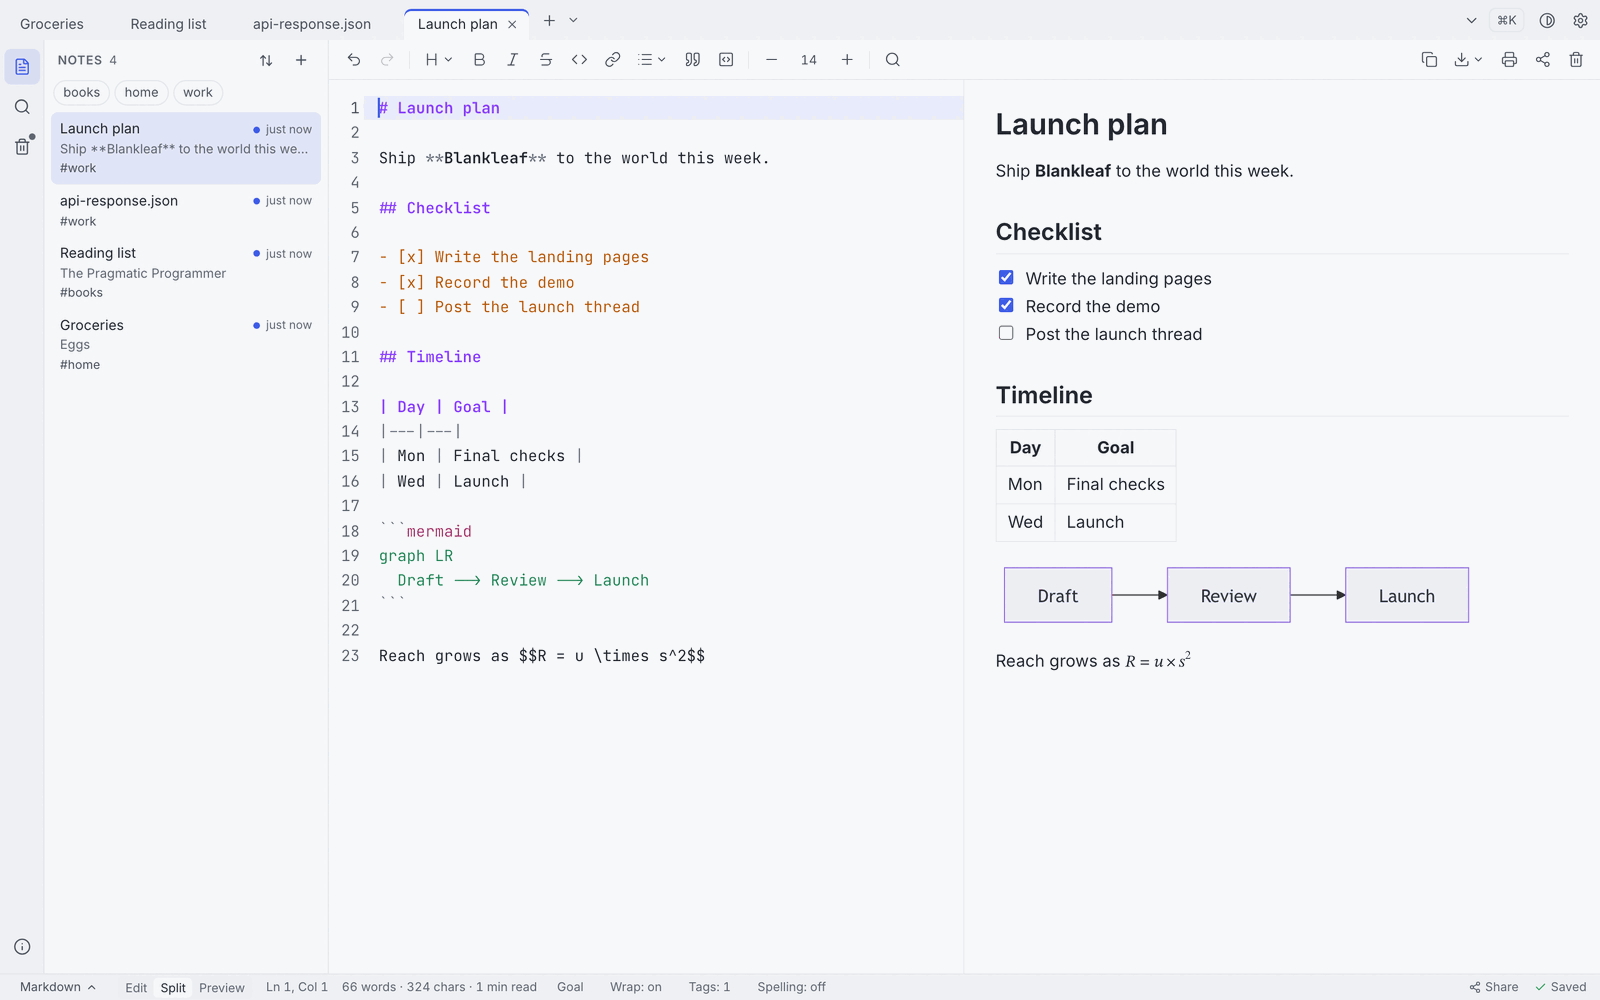
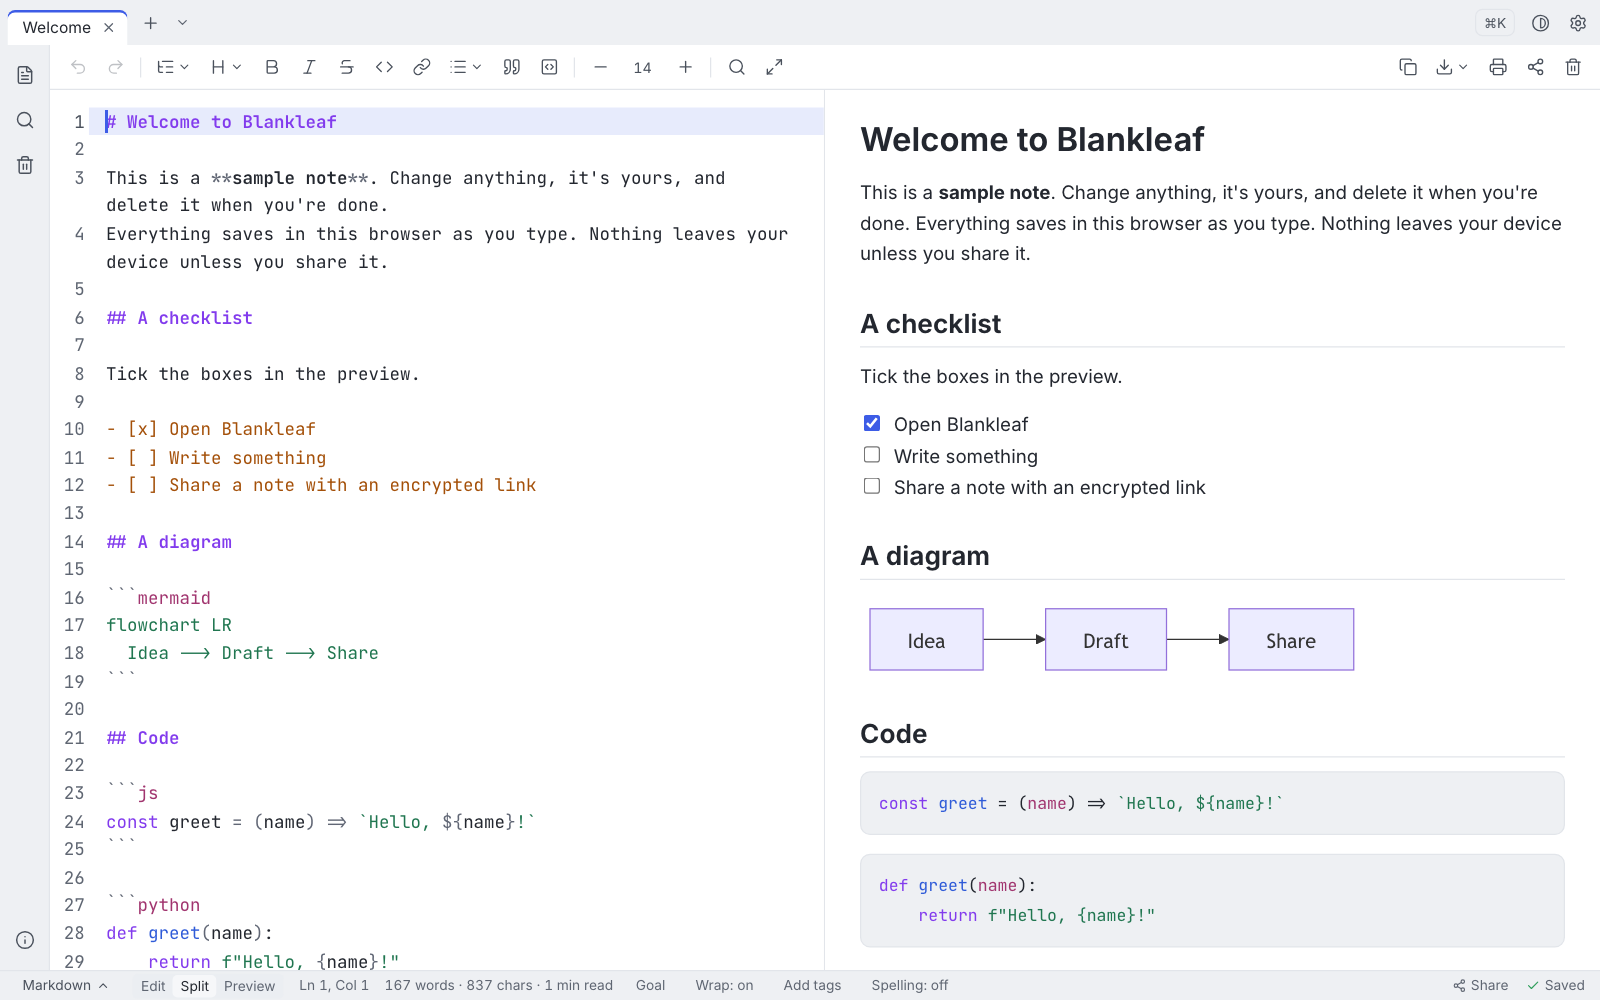
docs: new README screenshots and features, screenshot script (#67)
Retaken hero and phone images with the sample note, and new ones for links
between notes, Compare and zen mode. The README lists links, Outline,
Compare, the .zip download, the code-editing help and 33 formats, and the
shortcuts table gains Alt+Z for zen and Ctrl+/ for comments. `npm run
readme:shots` retakes the images from a running app.

Also: the backup reminder waits until zen mode is over instead of covering
the page.

diff --git a/src/features/backup/useBackupReminder.ts b/src/features/backup/useBackupReminder.ts
@@ -7,13 +7,15 @@ import { hasWrittenNotes, shouldRemindBackup } from './reminder'
 
 const CHECK_EVERY_MS = 60 * 60 * 1000
 
-/** At most one "time to back up" toast per session, checked at start and hourly. */
+/** At most one "time to back up" toast per session: at start, hourly, and after zen mode. */
 export function useBackupReminder(): void {
   useEffect(() => {
     let shown = false
     const check = () => {
       if (shown) return
       const s = getStore().getState()
+      // Not over the page while someone is writing in zen: asked again once it's over.
+      if (s.session.zen) return
       const hasNotes = hasWrittenNotes(s.notes)
       if (
         !shouldRemindBackup(getLastBackupAt(), s.settings.backupReminderDays, hasNotes, Date.now())
@@ -26,11 +28,18 @@ export function useBackupReminder(): void {
         action: { label: 'Export backup', run: () => void exportAll() },
       })
     }
-    const first = setTimeout(check, 5000)
+    let first = setTimeout(check, 5000)
     const timer = setInterval(check, CHECK_EVERY_MS)
+    const unsubscribe = getStore().subscribe((s, prev) => {
+      if (prev.session.zen && !s.session.zen) {
+        clearTimeout(first)
+        first = setTimeout(check, 5000)
+      }
+    })
     return () => {
       clearTimeout(first)
       clearInterval(timer)
+      unsubscribe()
     }
   }, [])
 }

diff --git a/src/features/backup/useBackupReminder.test.tsx b/src/features/backup/useBackupReminder.test.tsx
@@ -1,0 +1,23 @@
+import { act, renderHook } from '@testing-library/react'
+import { afterEach, beforeEach, expect, it, vi } from 'vitest'
+import { createAppStore, initStore } from '../../store/store'
+import { toastStore } from '../../ui/toast'
+import { useBackupReminder } from './useBackupReminder'
+
+beforeEach(() => vi.useFakeTimers())
+afterEach(() => vi.useRealTimers())
+
+const reminders = () =>
+  toastStore.getState().toasts.filter((t) => /live only in this browser/.test(t.msg))
+
+it('waits until zen mode is over before asking for a backup', () => {
+  const store = initStore(createAppStore())
+  store.getState().updateContent(store.getState().newNote(), 'my own words')
+  act(() => store.getState().toggleZen())
+  renderHook(() => useBackupReminder())
+  act(() => void vi.advanceTimersByTime(6000))
+  expect(reminders()).toHaveLength(0)
+  act(() => store.getState().toggleZen())
+  act(() => void vi.advanceTimersByTime(6000))
+  expect(reminders()).toHaveLength(1)
+})

diff --git a/README.md b/README.md
@@ -25,7 +25,8 @@ up. Blankleaf gives you a real editor the moment the page opens, and it never ne
 
 - **Instant.** Open the page and start typing. Every visit begins on a blank note.
 - **Private.** There is no backend. Notes are saved in your browser and work offline.
-- **Complete.** Tabs, Markdown, code highlighting, version history and encrypted sharing.
+- **Complete.** Tabs, Markdown, links between notes, code highlighting, version history and
+  encrypted sharing.
 
 ![Blankleaf showing a Markdown note beside its live preview, with a checklist, table, diagram and formula](docs/images/hero.png)
 
@@ -35,22 +36,38 @@ up. Blankleaf gives you a real editor the moment the page opens, and it never ne
 
 - **Tabs** for many notes at once, with pinning and drag to reorder
 - **Markdown** with edit, split and preview views, clickable checklists, tables, Mermaid diagrams and math
-- **Syntax highlighting** for 20+ formats, detected as you type
+- **Syntax highlighting** for 33 formats, detected as you type, with one-click Undo if the guess is wrong
 - **Templates** for a daily journal, meeting notes, checklists and to-do lists
 - **Voice typing** on a computer in Chrome, Edge and Safari
 - **Reading time, word goals and spell check** for each note
-- **Two notes side by side** on wide screens, and a zen mode that hides everything but the page
+- **Outline** of a Markdown note's headings, to jump straight to one
+- **Two notes side by side** on wide screens
+
+### Focus
+
+Zen mode (⌃⌥Z on a Mac, Alt+Z elsewhere, or the button in the toolbar) goes full screen and shows only your words, in
+a column about 70 characters wide. Nothing else on the screen until you press Esc.
+
+![Blankleaf in zen mode: only the text, centred on an empty page](docs/images/zen.png)
+
+### Link your notes
+
+Type `[[` to link another note by its title. Links work in the editor and the Markdown preview,
+a link to a note that doesn't exist yet creates it, and each note shows which notes link to it.
+
+![A Markdown note with links to two other notes, an Open button under the cursor, and the rendered links in the preview](docs/images/links.png)
 
 ### Organize and find
 
 - **Tags**, sorting and search across every note
+- **Linked from**: see every note that links to the one you're reading
 - **Command palette** (⌘K / Ctrl+K) for every action
 - **Trash** that keeps deleted notes for 30 days
 
 ### Keep your work safe
 
 - **Autosave** in your browser as you type
-- **Version history** to read and restore earlier text
+- **Version history** to read, compare and restore earlier text
 - **Automatic backup to a folder** in browsers that support it, such as Chrome and Edge on a computer
 - **Password-locked notes**, encrypted in your browser with AES-256
 - **Backup and restore** with a single file
@@ -59,10 +76,14 @@ up. Blankleaf gives you a real editor the moment the page opens, and it never ne
 
 - **Encrypted share links** that expire, with an optional password ([how it works](#sharing-a-note))
 - **Export** to Markdown, HTML or Word, or print and save as PDF
-- **Send to Blankleaf** from the Android Share menu once installed, and open `.txt` and `.md` files on a computer
+- **Download every note as files** in one .zip (.md, .txt, .py, …), to open in any app
+- **Send to Blankleaf** from the Android Share menu once installed, and open text and code files on a computer
 
 ### For code and data
 
+- Brackets and quotes close as you type, matching brackets light up, and blocks fold
+- Enter keeps your indentation; ⌘/ (Ctrl+/) comments a line; Indent, Outdent and Comment buttons on phones
+- JSON errors are underlined as you type
 - Format or minify JSON, convert JSON ⇄ YAML, and encode or decode Base64 and URLs
 - Sort lines, remove duplicates, change case and find and replace
 
@@ -78,6 +99,10 @@ works offline.
 ### Never lose a good draft
 
 ![The version history dialog showing earlier versions of a note](docs/images/version-history.png)
+
+Compare any version, or any two notes, side by side with every change marked:
+
+![Two drafts of a launch post side by side, with removed words marked in red and added words in green](docs/images/compare.png)
 
 ## Privacy
 
@@ -102,8 +127,11 @@ On macOS **⌃⌥** is Control+Option; on Windows/Linux it is **Alt**.
 | Toggle sidebar                  | ⌘B        | Ctrl+B          |
 | Search all notes                | ⌘⇧F       | Ctrl+Shift+F    |
 | Find & replace in note          | ⌘F        | Ctrl+F          |
-| Zen mode                        | ⌘.        | Ctrl+.          |
+| Zen mode                        | ⌘. or ⌃⌥Z | Ctrl+. or Alt+Z |
+| Comment line (code notes)       | ⌘/        | Ctrl+/          |
 | Keyboard shortcuts              | ⌘/        | Ctrl+/          |
+
+Outside a code note, ⌘/ (Ctrl+/) opens the list of shortcuts.
 
 When installed as an app, ⌘T / ⌘W (Ctrl+T / Ctrl+W) also open and close tabs.
 
